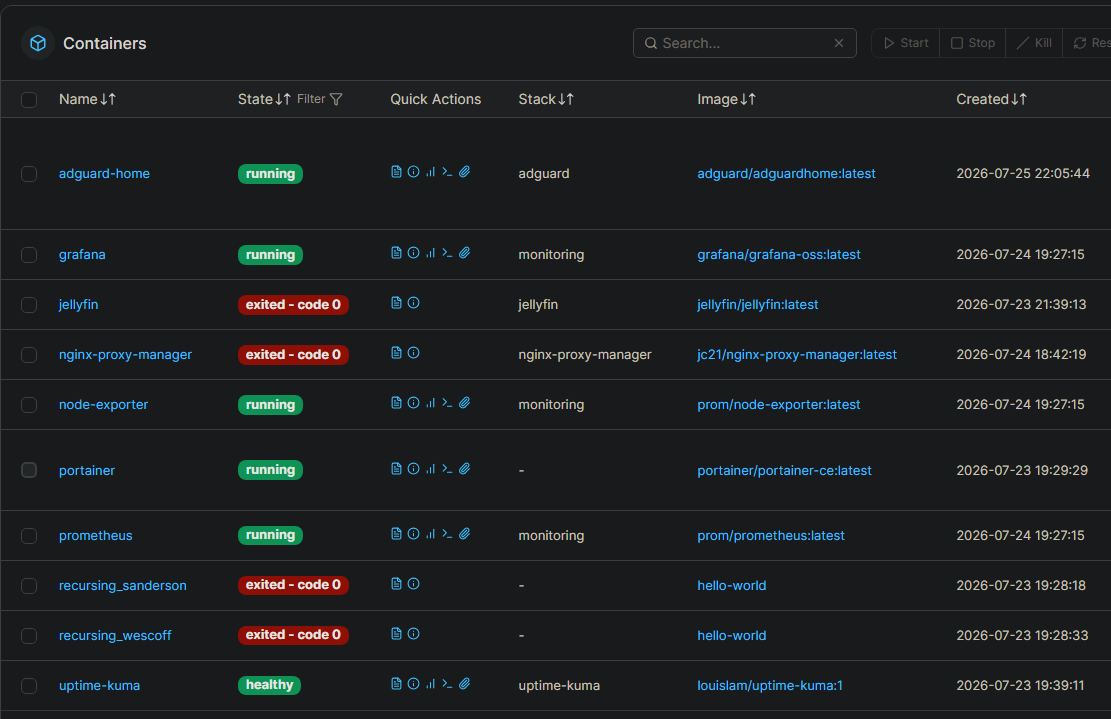
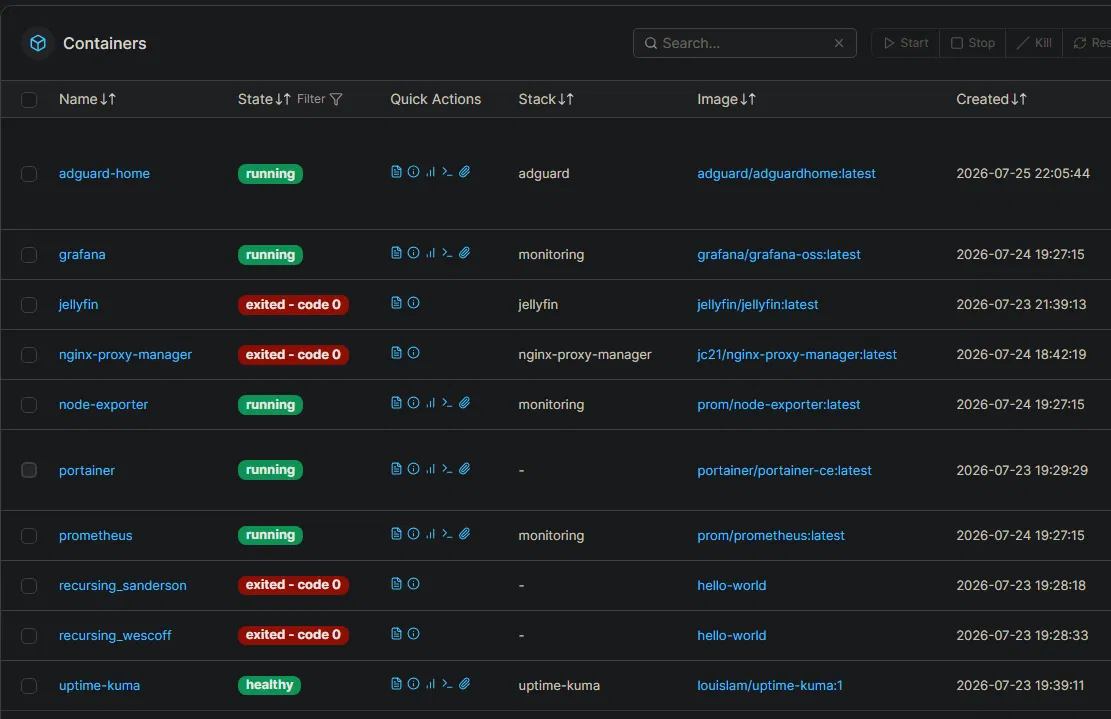
Add files via upload

diff --git a/assets/index (10).html b/assets/index (10).html
@@ -1,0 +1,313 @@
+<!DOCTYPE html>
+<html lang="en">
+<head>
+<meta charset="UTF-8">
+<meta name="viewport" content="width=device-width, initial-scale=1.0">
+<title>Akber Shah — Engineering Portfolio</title>
+<link rel="preconnect" href="https://fonts.googleapis.com">
+<link href="https://fonts.googleapis.com/css2?family=Inter:wght@400;500;600;700;800&display=swap" rel="stylesheet">
+<style>
+*{box-sizing:border-box;margin:0;padding:0;}
+:root{--navy:#12233C;--gold:#B8863B;--bg:#F7F5F0;--surface:#FFFFFF;--border:#E4DFD3;--text:#1B2330;--text-dim:#5B6472;--text-faint:#8A93A0;--blue:#2857A6;--callout-bg:#EEF2F8;}
+body{font-family:'Inter',sans-serif;background:var(--bg);color:var(--text);line-height:1.6;}
+a{color:var(--blue);}
+
+nav{background:var(--navy);padding:0 2rem;display:flex;align-items:center;justify-content:space-between;position:sticky;top:0;z-index:100;}
+.nav-logo{color:#fff;font-weight:700;font-size:1rem;padding:1rem 0;}
+.nav-links{display:flex;}
+.nav-links a{color:rgba(255,255,255,0.7);text-decoration:none;font-size:0.8rem;letter-spacing:0.05em;text-transform:uppercase;padding:1.25rem 0;margin-left:1.75rem;border-bottom:2px solid transparent;transition:color 0.2s,border-color 0.2s;}
+.nav-links a:hover{color:#fff;border-color:var(--gold);}
+
+.hero{background:var(--navy);color:#fff;}
+.hero .wrap{max-width:900px;margin:0 auto;padding:48px 24px 40px;display:flex;justify-content:space-between;align-items:flex-start;flex-wrap:wrap;gap:20px;}
+.hero h1{font-size:clamp(30px,5vw,42px);font-weight:800;line-height:1.1;letter-spacing:-0.5px;}
+.hero-right{text-align:right;max-width:340px;}
+.hero-right .role{color:var(--gold);font-weight:700;font-size:15px;margin-bottom:6px;}
+.hero-right .sub{color:rgba(255,255,255,0.65);font-size:13.5px;margin-bottom:10px;}
+.hero-right .contact{color:#C9D2DE;font-size:13px;}
+.hero-right .contact a{color:#C9D2DE;text-decoration:none;}
+.hero-right .contact a:hover{color:#fff;}
+.hero-right .creds{margin-top:8px;font-size:12px;color:var(--gold);font-family:monospace;}
+@media (max-width:560px){ .hero .wrap{flex-direction:column;} .hero-right{text-align:left;} }
+
+.wrap{max-width:900px;margin:0 auto;padding:0 24px;}
+section{padding:44px 0;}
+.eyebrow{font-size:11.5px;font-weight:700;letter-spacing:0.06em;color:var(--gold);text-transform:uppercase;margin-bottom:6px;}
+.section-title{font-size:24px;font-weight:800;margin-bottom:24px;}
+
+.project{background:var(--surface);border:1px solid var(--border);border-left:3px solid var(--gold);border-radius:4px;padding:28px 30px;margin-bottom:24px;}
+.proj-tag{font-size:11px;font-weight:700;letter-spacing:0.05em;color:var(--gold);text-transform:uppercase;margin-bottom:8px;}
+.project h3{font-size:19px;font-weight:800;margin-bottom:10px;color:var(--navy);}
+.project p.desc{font-size:14.5px;color:var(--text-dim);margin-bottom:18px;max-width:640px;}
+
+.gallery{display:flex;flex-direction:column;gap:10px;margin-bottom:18px;}
+.gallery.row{flex-direction:row;flex-wrap:wrap;}
+.gallery.row .shot{flex:1;min-width:230px;}
+.shot{border:1px solid var(--border);border-radius:4px;overflow:hidden;background:#fafaf8;}
+.shot img{display:block;width:100%;height:auto;cursor:zoom-in;}
+.shot-cap{font-size:11px;color:var(--text-faint);padding:7px 10px;border-top:1px solid var(--border);}
+.pending-note{font-size:13px;color:var(--text-faint);font-style:italic;background:var(--bg);border:1px dashed var(--border);border-radius:4px;padding:12px 14px;margin-bottom:18px;}
+
+.callout{display:flex;align-items:center;gap:14px;background:var(--callout-bg);border-radius:4px;padding:12px 16px;margin-bottom:16px;}
+.callout .label{font-size:10.5px;font-weight:700;letter-spacing:0.05em;color:var(--blue);text-transform:uppercase;flex-shrink:0;}
+.callout .value{font-size:14px;font-weight:700;color:var(--navy);}
+
+.tags{font-size:12px;color:var(--text-faint);}
+
+.cap-grid{display:grid;grid-template-columns:repeat(auto-fit,minmax(190px,1fr));gap:24px;}
+.cap-col .cap-title{font-size:11px;font-weight:700;letter-spacing:0.05em;color:var(--gold);text-transform:uppercase;margin-bottom:10px;}
+.cap-col ul{list-style:none;}
+.cap-col li{font-size:14px;color:var(--text);padding:4px 0;border-bottom:1px solid var(--border);}
+.cap-col li:last-child{border-bottom:none;}
+
+.cred-card{background:var(--surface);border:1px solid var(--border);border-radius:4px;padding:22px 26px;display:flex;justify-content:space-between;align-items:flex-start;flex-wrap:wrap;gap:14px;}
+.cred-card .school{font-size:16px;font-weight:800;color:var(--navy);}
+.cred-card .degree{color:var(--text-dim);font-size:14px;margin-top:4px;}
+.cred-card .date{font-size:12px;color:var(--text-faint);white-space:nowrap;}
+.cert-badges{display:flex;gap:10px;flex-wrap:wrap;}
+.badge{font-size:12.5px;padding:6px 14px;background:var(--callout-bg);color:var(--blue);border-radius:100px;font-weight:600;}
+
+footer{background:var(--navy);color:#C9D2DE;padding:34px 0;margin-top:20px;}
+footer .wrap{display:flex;justify-content:space-between;align-items:center;flex-wrap:wrap;gap:14px;}
+footer .fname{color:#fff;font-weight:700;font-size:15px;}
+footer .frole{font-size:12.5px;color:var(--gold);}
+footer .flinks{display:flex;gap:18px;font-size:13px;}
+footer a{color:#C9D2DE;text-decoration:none;}
+footer a:hover{color:#fff;}
+
+.lightbox-overlay{position:fixed;inset:0;background:rgba(13,31,53,0.92);display:none;align-items:center;justify-content:center;z-index:1000;cursor:zoom-out;padding:2rem;}
+.lightbox-overlay.active{display:flex;}
+.lightbox-overlay img{max-width:100%;max-height:100%;border-radius:6px;box-shadow:0 20px 60px rgba(0,0,0,0.5);}
+
+hr.divider{border:none;border-top:1px solid var(--border);}
+</style>
+</head>
+<body>
+
+<nav>
+  <div class="nav-logo">A. Shah</div>
+  <div class="nav-links">
+    <a href="#projects">Projects</a>
+    <a href="#skills">Skills</a>
+    <a href="#education">Education</a>
+    <a href="#contact">Contact</a>
+  </div>
+</nav>
+
+<header class="hero">
+  <div class="wrap">
+    <h1>Akber<br>Shah</h1>
+    <div class="hero-right">
+      <div class="role">Aspiring Network Engineer &middot; CCNA</div>
+      <div class="sub">UT Dallas Computer Engineering graduate seeking network engineering opportunities in the Dallas&ndash;Fort Worth area.</div>
+      <div class="contact">Mansfield, TX &nbsp;|&nbsp; 817-908-9868 &nbsp;|&nbsp; <a href="mailto:akberashah200@icloud.com">akberashah200@icloud.com</a></div>
+      <div class="creds">CCNA Certified &middot; OSHA 10-Hour General Industry Safety and Health</div>
+    </div>
+  </div>
+</header>
+
+<div class="wrap">
+
+  <section id="projects">
+    <div class="eyebrow">Work</div>
+    <div class="section-title">Projects</div>
+
+    <div class="project">
+      <div class="proj-tag">Systems &amp; Virtualization &middot; Home Lab</div>
+      <h3>Enterprise Active Directory Homelab</h3>
+      <p class="desc">Deployed a Windows Server Domain Controller in Proxmox, configuring Active Directory Domain Services (AD DS), DNS, Organizational Units, users, security groups, and domain-joined Windows 11 clients. Implemented Group Policy Objects to automate network drive mapping, deploy desktop wallpapers, and enforce login banners through centralized user and computer management, then configured SMB file shares with NTFS permissions and Role-Based Access Control using Active Directory security groups to secure department resources.</p>
+
+      <div class="gallery">
+        <div class="shot">
+          <img src="assets/ad-ous-group-policy.png" alt="Active Directory Users and Computers showing Organizational Units for departments and a domain user" onclick="openLightbox(this.src)">
+          <div class="shot-cap">Organizational structure</div>
+        </div>
+        <div class="shot">
+          <img src="assets/ad-drive-mapping-gpo.png" alt="Group Policy driven network drive mapping for the Engineering OU" onclick="openLightbox(this.src)">
+          <div class="shot-cap">Network drive mapping via Group Policy</div>
+        </div>
+        <div class="shot">
+          <img src="assets/ad-login-banner.png" alt="Homelab login banner enforced through Group Policy showing authorized use notice" onclick="openLightbox(this.src)">
+          <div class="shot-cap">Login banner enforced via Group Policy</div>
+        </div>
+      </div>
+
+      <div class="callout">
+        <span class="label">Scope</span>
+        <span class="value">Full AD domain stood up from scratch: DNS, GPOs, RBAC, and domain-joined clients</span>
+      </div>
+
+      <div class="tags">Windows Server &middot; Active Directory Domain Services &middot; Group Policy (GPO) &middot; DNS &middot; RBAC / NTFS Permissions &middot; Proxmox VE</div>
+    </div>
+
+    <div class="project">
+      <div class="proj-tag">Systems &amp; Virtualization &middot; Home Lab</div>
+      <h3>Virtualized Infrastructure Lab</h3>
+      <p class="desc">Built a self-hosted lab on Proxmox that mirrors how production infrastructure is actually run: compute and storage kept on separate systems, every application containerized, and the whole environment monitored rather than run blind. Deployed a Proxmox platform hosting Ubuntu Server and TrueNAS, then stood up 7 Docker containers &mdash; Portainer, Jellyfin, Nginx Proxy Manager, Grafana, Prometheus, Node Exporter, and AdGuard Home &mdash; covering app management, media streaming, monitoring, reverse proxy, and DNS filtering.</p>
+
+      <div class="gallery">
+        <div class="shot">
+          <img src="assets/proxmox-summary.png" alt="Proxmox VE node summary showing CPU, RAM, and load graphs alongside the VM/CT list" onclick="openLightbox(this.src)">
+          <div class="shot-cap">Proxmox VE &mdash; node summary, live resource graphs</div>
+        </div>
+        <div class="shot">
+          <img src="assets/portainer-containers.png" alt="Portainer container list showing running services including adguard-home, grafana, prometheus, and portainer" onclick="openLightbox(this.src)">
+          <div class="shot-cap">Portainer Dashboard (Hosted on Ubuntu/Docker)</div>
+        </div>
+        <div class="shot">
+          <img src="assets/grafana-dashboard.png" alt="Grafana dashboard with CPU, RAM, swap, and network gauges fed by Prometheus and node-exporter" onclick="openLightbox(this.src)">
+          <div class="shot-cap">Grafana &mdash; CPU / RAM / network dashboard</div>
+        </div>
+      </div>
+
+      <div class="callout">
+        <span class="label">Scale</span>
+        <span class="value">7 Docker containers running on a Proxmox + TrueNAS platform, fully monitored</span>
+      </div>
+
+      <div class="tags">Proxmox VE &middot; TrueNAS &middot; Docker &middot; Portainer &middot; Grafana / Prometheus &middot; Nginx Proxy Manager</div>
+    </div>
+
+    <div class="project">
+      <div class="proj-tag">Network Design &middot; CCNA Lab</div>
+      <h3>CCNA Enterprise Network Mega Lab</h3>
+      <p class="desc">Configured a two-office enterprise network in Cisco Packet Tracer around a real three-tier architecture: redundant core switches, a dual distribution layer serving Office A and Office B, and access switches feeding wireless, VoIP, and endpoints in each. Implemented VLANs, inter-VLAN routing, OSPF, HSRPv2, EtherChannel, Rapid PVST+, DHCP, DNS, and NAT/PAT, then hardened the network with ACLs, Port Security, DHCP Snooping, Dynamic ARP Inspection, and SSH-only management &mdash; validating failover with Cisco IOS troubleshooting tools.</p>
+
+      <div class="gallery">
+        <div class="shot">
+          <img src="assets/ccna-topology.png" alt="Three-tier enterprise network topology with redundant core switches, dual distribution layers for Office A and Office B, and access switches feeding phones, laptops, PCs, and a server" onclick="openLightbox(this.src)">
+          <div class="shot-cap">Full topology &mdash; redundant core/distribution mesh, Office A &amp; Office B</div>
+        </div>
+      </div>
+
+      <div class="callout">
+        <span class="label">Scope</span>
+        <span class="value">Multi-site, three-tier network with full core and distribution redundancy</span>
+      </div>
+
+      <div class="tags">Cisco Packet Tracer &middot; VLANs &middot; OSPF &middot; HSRPv2 &middot; EtherChannel &middot; ACLs &middot; DHCP Snooping / DAI</div>
+    </div>
+
+    <div class="project">
+      <div class="proj-tag">Circuit Design &middot; UT Dallas</div>
+      <h3>MOSFET Logic Gate Lab</h3>
+      <p class="desc">Collaborated in the design and development of a MOSFET-based digital logic laboratory experiment that was adopted for instructional use in the university's engineering curriculum. Characterized MOSFET performance by analyzing threshold voltage (V<sub>TH</sub>) and I-V characteristics using PSpice and WaveForms to evaluate device behavior and select matched components. Designed, simulated, and validated MOSFET-based NOT, NAND, and SR latch circuits using PSpice and verified logic operation through hardware testing with WaveForms.</p>
+
+      <div class="gallery">
+        <div class="shot">
+          <img src="assets/mosfet-nand.png" alt="CMOS NAND gate circuit schematic with two n-type and two p-type MOSFETs" onclick="openLightbox(this.src)">
+          <div class="shot-cap">NAND gate circuit</div>
+        </div>
+        <div class="shot">
+          <img src="assets/mosfet-srlatch.png" alt="SR latch circuit schematic built from two cross-coupled NAND gate stages" onclick="openLightbox(this.src)">
+          <div class="shot-cap">SR latch circuit</div>
+        </div>
+      </div>
+
+      <div class="callout">
+        <span class="label">Outcome</span>
+        <span class="value">Adopted for instructional use in the university engineering curriculum</span>
+      </div>
+
+      <div class="tags">PSpice &middot; WaveForms &middot; CMOS Logic &middot; Threshold Voltage Characterization</div>
+    </div>
+  </section>
+
+  <hr class="divider">
+
+  <section id="skills">
+    <div class="eyebrow">Capabilities</div>
+    <div class="section-title">Skills &amp; Tools</div>
+
+    <div class="cap-grid">
+      <div class="cap-col">
+        <div class="cap-title">Networking</div>
+        <ul>
+          <li>Cisco IOS CLI</li>
+          <li>VLANs / OSPF / HSRP</li>
+          <li>EtherChannel</li>
+          <li>STP / Rapid PVST+</li>
+          <li>ACLs, DHCP, DNS</li>
+          <li>NAT/PAT, SNMP, SSH</li>
+          <li>TCP/IP</li>
+        </ul>
+      </div>
+      <div class="cap-col">
+        <div class="cap-title">Systems &amp; Virtualization</div>
+        <ul>
+          <li>Linux Administration</li>
+          <li>Windows Server / Active Directory</li>
+          <li>Group Policy (GPO)</li>
+          <li>RBAC / NTFS Permissions</li>
+          <li>Proxmox VE</li>
+          <li>TrueNAS</li>
+          <li>Docker / Portainer</li>
+          <li>Nginx Proxy Manager</li>
+        </ul>
+      </div>
+      <div class="cap-col">
+        <div class="cap-title">Hardware &amp; Simulation</div>
+        <ul>
+          <li>Cisco Packet Tracer</li>
+          <li>PuTTY</li>
+          <li>PSpice / WaveForms</li>
+          <li>Altium Designer / KiCad</li>
+          <li>Tinkercad</li>
+        </ul>
+      </div>
+    </div>
+  </section>
+
+  <hr class="divider">
+
+  <section id="education">
+    <div class="eyebrow">Background</div>
+    <div class="section-title">Education</div>
+
+    <div class="cred-card" style="margin-bottom:28px;">
+      <div>
+        <div class="school">University of Texas at Dallas</div>
+        <div class="degree">B.S. Computer Engineering</div>
+      </div>
+      <div class="date">Graduated Dec 2025</div>
+    </div>
+
+    <div class="eyebrow">Credentials</div>
+    <div class="section-title" style="margin-bottom:14px;">Certifications</div>
+    <div class="cert-badges">
+      <span class="badge">CCNA &mdash; Cisco Certified Network Associate</span>
+      <span class="badge">OSHA 10-Hour General Industry Safety and Health</span>
+    </div>
+  </section>
+
+</div>
+
+<footer id="contact">
+  <div class="wrap">
+    <div>
+      <div class="fname">Akber Shah</div>
+      <div class="frole">Aspiring Network Engineer &middot; CCNA</div>
+    </div>
+    <div class="flinks">
+      <a href="tel:8179089868">817-908-9868</a>
+      <a href="mailto:akberashah200@icloud.com">Email</a>
+      <a href="https://www.linkedin.com/in/akber-shah-867958234/" target="_blank" rel="noopener">LinkedIn</a>
+    </div>
+  </div>
+</footer>
+
+<div class="lightbox-overlay" id="lightbox" onclick="this.classList.remove('active')">
+  <img id="lightbox-img" src="" alt="Expanded screenshot">
+</div>
+<script>
+function openLightbox(src){
+  document.getElementById('lightbox-img').src = src;
+  document.getElementById('lightbox').classList.add('active');
+}
+document.addEventListener('keydown', function(e){
+  if(e.key === 'Escape'){ document.getElementById('lightbox').classList.remove('active'); }
+});
+</script>
+
+</body>
+</html>
